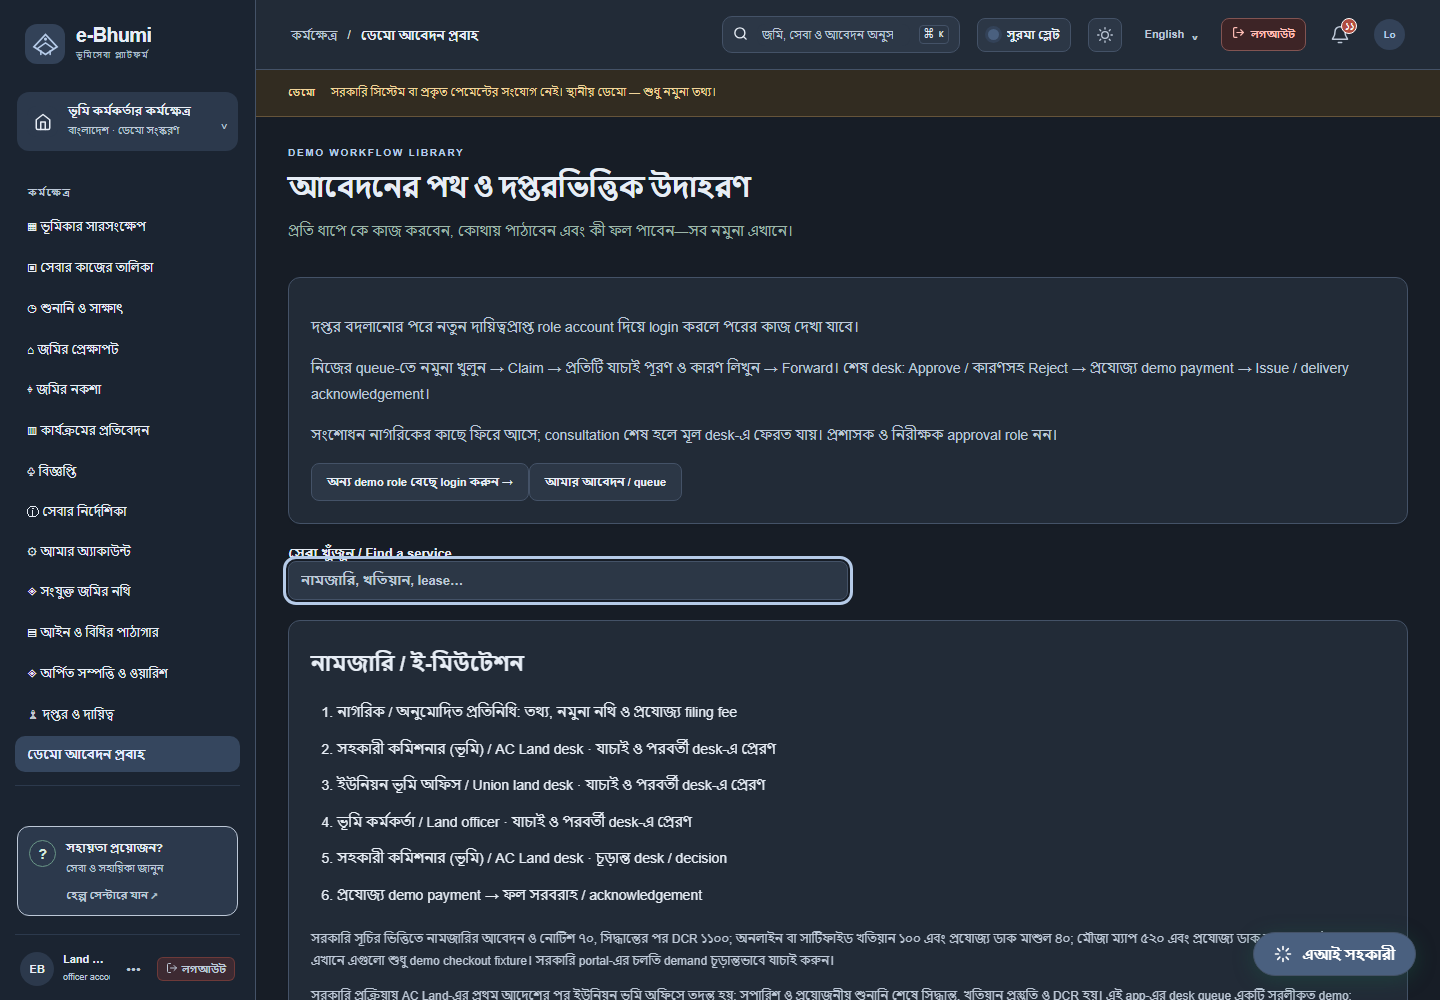
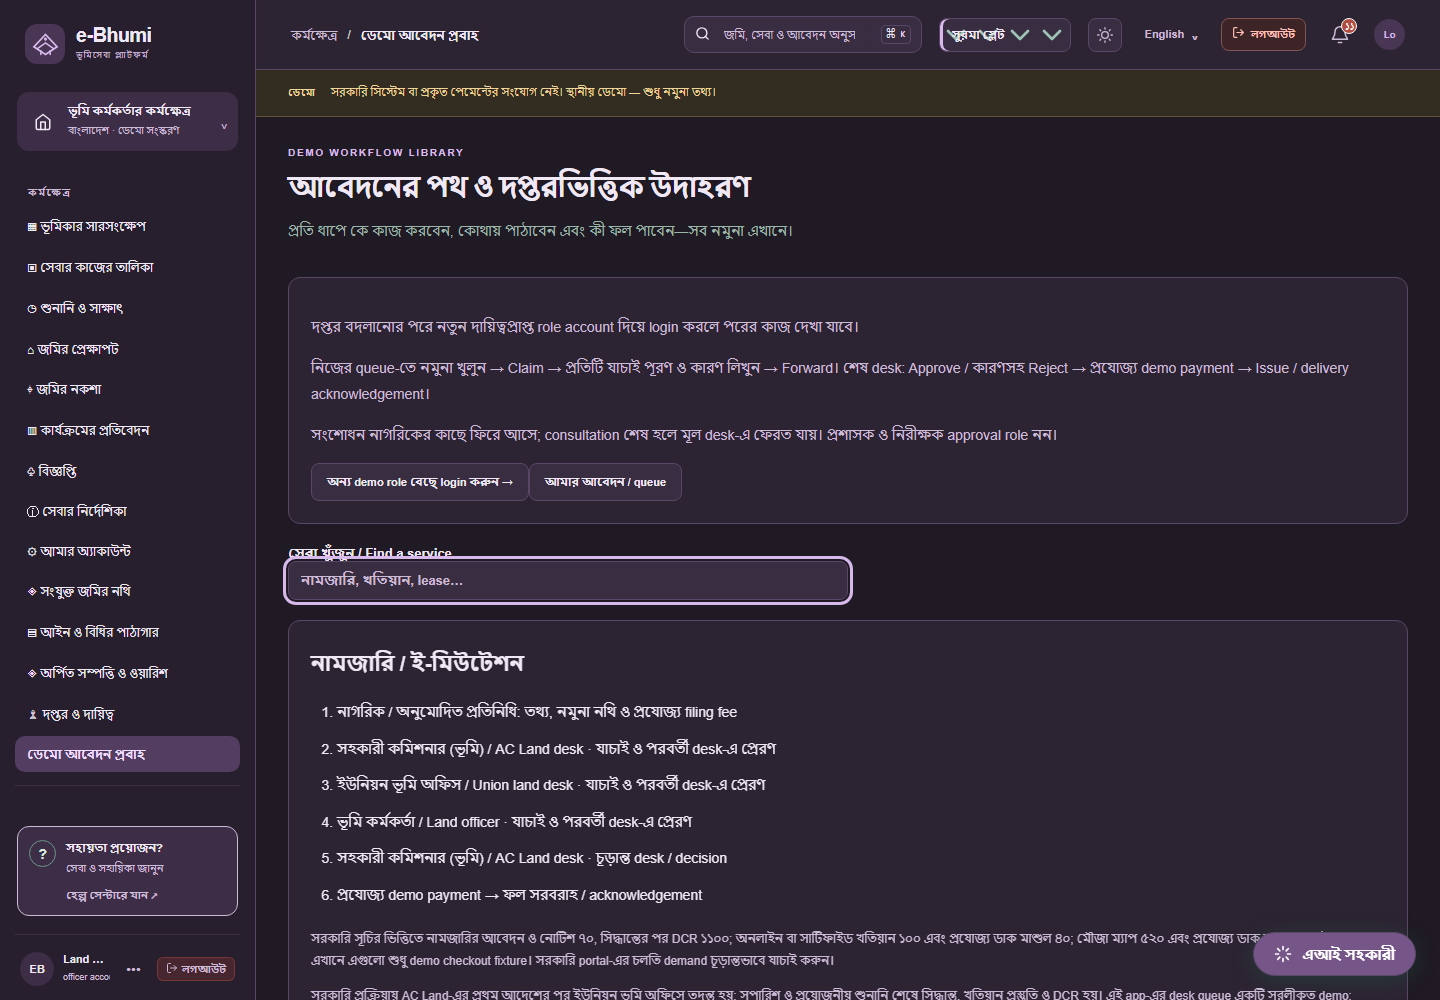
Simplify colour picker and distinguish Meghna blue from Surma plum slate

diff --git a/ebhumi-platform/themes.css b/ebhumi-platform/themes.css
@@ -33,8 +33,6 @@
   --theme-sideMuted:#b3c2ce;
   --theme-active:#2a465d;
   --theme-activeInk:#dceeff;
-  --theme-primary:#335f88;
-  --theme-primaryHover:#3d709d;
   --theme-primary:#335f88;--theme-primary-hover:#3d709d;
 }
 :root[data-color-variant="sundarban"]{
@@ -71,47 +69,43 @@
   --theme-sideMuted:#d0bca9;
   --theme-active:#4b392b;
   --theme-activeInk:#f8dfc7;
-  --theme-primary:#865337;
-  --theme-primaryHover:#996344;
   --theme-primary:#865337;--theme-primary-hover:#996344;
 }
 :root[data-color-variant="surma"]{
-  --theme-canvas:#f4f6f8;
+  --theme-canvas:#f6f4f7;
   --theme-surface:#ffffff;
-  --theme-soft:#eaf0f5;
-  --theme-ink:#2c3d51;
-  --theme-muted:#5b6c80;
-  --theme-line:#d4dde6;
-  --theme-accent:#4a607e;
-  --theme-hover:#354b68;
-  --theme-tint:#e8edf4;
-  --theme-side:#2b394b;
-  --theme-sideSoft:#3b4c62;
-  --theme-sideInk:#f0f4fa;
-  --theme-sideMuted:#c4cfdf;
-  --theme-active:#e8edf5;
-  --theme-activeInk:#354c69;
-  --theme-primary:#4a607e;--theme-primary-hover:#354b68;
+  --theme-soft:#eee9f0;
+  --theme-ink:#3c3444;
+  --theme-muted:#6d6077;
+  --theme-line:#ddd4e2;
+  --theme-accent:#695174;
+  --theme-hover:#513d5c;
+  --theme-tint:#eee7f1;
+  --theme-side:#43364b;
+  --theme-sideSoft:#56435f;
+  --theme-sideInk:#f7f0fa;
+  --theme-sideMuted:#d8c7e0;
+  --theme-active:#efe6f3;
+  --theme-activeInk:#594063;
+  --theme-primary:#695174;--theme-primary-hover:#513d5c;
 }
 :root[data-color-variant="surma"][data-theme="dark"]{
-  --theme-canvas:#171d26;
-  --theme-surface:#222b37;
-  --theme-soft:#2c3746;
-  --theme-ink:#e7edf5;
-  --theme-muted:#bdc8d7;
-  --theme-line:#445267;
-  --theme-accent:#b6cbe8;
-  --theme-hover:#d5e4f7;
-  --theme-tint:#334258;
-  --theme-side:#1b2431;
-  --theme-sideSoft:#2c394c;
-  --theme-sideInk:#e7edf5;
-  --theme-sideMuted:#bdc8d7;
-  --theme-active:#35465e;
-  --theme-activeInk:#e4edff;
-  --theme-primary:#4a607f;
-  --theme-primaryHover:#586f91;
-  --theme-primary:#4a607f;--theme-primary-hover:#586f91;
+  --theme-canvas:#201a24;
+  --theme-surface:#2d2433;
+  --theme-soft:#392e41;
+  --theme-ink:#f0e8f5;
+  --theme-muted:#ccbbd6;
+  --theme-line:#5a4767;
+  --theme-accent:#d7b9ec;
+  --theme-hover:#edd6fa;
+  --theme-tint:#493554;
+  --theme-side:#281f2e;
+  --theme-sideSoft:#3d2d47;
+  --theme-sideInk:#f0e8f5;
+  --theme-sideMuted:#ccbbd6;
+  --theme-active:#533d61;
+  --theme-activeInk:#f1ddff;
+  --theme-primary:#765588;--theme-primary-hover:#89649d;
 }
 :root[data-color-variant]:not([data-color-variant="padma"]){--canvas:var(--theme-canvas);--paper:var(--theme-surface);--white:var(--theme-surface);--ink:var(--theme-ink);--muted:var(--theme-muted);--line:var(--theme-line);--green:var(--theme-accent);--green-2:var(--theme-hover);--mint:var(--theme-tint);--color-brand-primary:var(--theme-primary);--color-brand-hover:var(--theme-primary-hover);--color-brand-subtle:var(--theme-tint);--color-brand-border:var(--theme-line);background:var(--theme-canvas);color:var(--theme-ink)}
 :root[data-color-variant]:not([data-color-variant="padma"]) body,
@@ -264,24 +258,11 @@
 :root[data-color-variant]:not([data-color-variant="padma"])[data-theme="dark"] #hillTerrainPanel .panel[style],:root[data-color-variant]:not([data-color-variant="padma"])[data-theme="dark"] #hillTerrainPanel [style*="background"]{background:var(--theme-soft)!important;border-color:var(--theme-line)!important}
 :root[data-color-variant]:not([data-color-variant="padma"])[data-theme="dark"] #hillTerrainPanel [style*="color"]{color:var(--theme-ink)!important}
 
-/* Visual colour picker. Native radio inputs retain keyboard and screen-reader support. */
-.appearance-trigger{height:34px;display:inline-flex;align-items:center;gap:8px;max-width:155px;white-space:nowrap;padding:0 10px;border:1px solid var(--line,#dce7e1);border-radius:8px;background:#fff;color:var(--ink,#173d33);font-size:11px;font-weight:600;cursor:pointer}
-.appearance-trigger>span:last-child{overflow:hidden;text-overflow:ellipsis}
-.appearance-dot{width:11px;height:11px;flex:none;border-radius:50%;background:var(--theme-primary,#1b5e48);box-shadow:0 0 0 3px var(--theme-tint,#eaf4ef)}
-[data-theme="dark"][data-color-variant="padma"] .appearance-trigger{background:#152e25;border-color:#22443a;color:#e3ede6}
-.appearance-dialog{width:min(620px,calc(100vw - 28px));padding:26px;border-radius:18px;box-shadow:0 24px 80px #0004}
-.appearance-dialog::backdrop{background:#101a24a3;backdrop-filter:blur(5px)}
-.appearance-dialog .dialog-head{align-items:flex-start}.appearance-dialog h2{margin:3px 0 0;font-size:23px;line-height:1.45}.appearance-dialog .eyebrow{margin:0;font-size:9px}
-.appearance-dialog .appearance-intro{font-size:13px;margin:12px 0 20px;color:var(--muted);line-height:1.8}.appearance-close{font-size:23px;line-height:1;width:34px;height:34px;flex:none}
-.appearance-dialog fieldset{min-width:0;border:0;padding:0;margin:0 0 20px}.appearance-dialog legend{font-size:12px;font-weight:700;margin-bottom:10px}
-.appearance-modes{display:grid;grid-template-columns:1fr 1fr;gap:8px}.appearance-modes label{display:flex;flex-direction:row;align-items:center;justify-content:center;gap:8px;border:1px solid var(--line);padding:11px;border-radius:9px;cursor:pointer;font-size:12px}.appearance-modes input{width:15px;height:15px;margin:0;accent-color:var(--theme-primary,var(--green))}.appearance-modes label:has(:checked){background:var(--theme-tint,var(--mint));border-color:var(--theme-accent,var(--green))}
-.appearance-palettes{display:grid;grid-template-columns:1fr 1fr;gap:12px}.appearance-choice{position:relative;display:block;border:1px solid var(--line);border-radius:12px;padding:10px;cursor:pointer;min-width:0}.appearance-choice>input{position:absolute;top:14px;right:14px;width:17px;height:17px;margin:0;accent-color:var(--theme-primary,var(--green));z-index:1}.appearance-choice:has(:checked){border-color:var(--theme-accent,var(--green));box-shadow:0 0 0 1px var(--theme-accent,var(--green))}.appearance-choice:has(:focus-visible){outline:3px solid var(--theme-accent,var(--green));outline-offset:3px}.appearance-choice-title{display:block;margin-top:10px;font-size:13px;font-weight:700}.appearance-choice-note{display:block;font-size:10px;margin-top:3px;color:var(--muted);line-height:1.8}.appearance-check{position:absolute;right:13px;bottom:24px;color:var(--theme-accent,var(--green));display:none}.appearance-choice:has(:checked) .appearance-check{display:block}
-.appearance-mini{display:block;position:relative;height:92px;overflow:hidden;border-radius:7px;background:var(--preview-canvas);border:1px solid #71809330}.appearance-mini i{display:block;position:absolute}.mini-side{inset:0 auto 0 0;width:24%;background:var(--preview-side)}.mini-top{top:0;left:24%;right:0;height:18px;background:var(--preview-card);border-bottom:1px solid #71809322}.mini-card{top:29px;left:31%;width:26%;height:24px;border-radius:4px;background:var(--preview-card);border:1px solid #71809322}.mini-card.second{left:63%}.mini-action{left:31%;bottom:14px;width:33%;height:10px;border-radius:3px;background:var(--preview-accent)}
-[data-palette="padma"]{--preview-canvas:#f4f7f3;--preview-side:#123d35;--preview-card:#fff;--preview-accent:#1b5e48}[data-palette="meghna"]{--preview-canvas:#f3f6f9;--preview-side:#19384c;--preview-card:#fff;--preview-accent:#2b5c83}[data-palette="sundarban"]{--preview-canvas:#f8f6f2;--preview-side:#49392b;--preview-card:#fffefd;--preview-accent:#815737}[data-palette="surma"]{--preview-canvas:#f4f6f8;--preview-side:#2b394b;--preview-card:#fff;--preview-accent:#4a607e}
-[data-mode="dark"] [data-palette="padma"]{--preview-canvas:#0c1c17;--preview-side:#0b1a15;--preview-card:#132720;--preview-accent:#2b8465}[data-mode="dark"] [data-palette="meghna"]{--preview-canvas:#101923;--preview-side:#101f2d;--preview-card:#182632;--preview-accent:#335f88}[data-mode="dark"] [data-palette="sundarban"]{--preview-canvas:#211b17;--preview-side:#251e18;--preview-card:#2d251f;--preview-accent:#865337}[data-mode="dark"] [data-palette="surma"]{--preview-canvas:#171d26;--preview-side:#1b2431;--preview-card:#222b37;--preview-accent:#4a607f}
-.appearance-dialog .appearance-saved{margin:0;font-size:11px;color:var(--muted);line-height:1.8}
-@media(max-width:600px){.appearance-trigger{max-width:98px;padding:0 7px;gap:6px;font-size:10px}.appearance-dot{width:8px;height:8px}.appearance-dialog{padding:18px}.appearance-dialog h2{font-size:21px}.appearance-palettes{gap:10px}.appearance-choice-note{max-width:120px}.appearance-choice-title{font-size:12px}.appearance-check{right:10px;bottom:12px}.appearance-mini{height:80px}}
-@media print{.appearance-dialog,.appearance-trigger{display:none!important}}
+/* Compact colour control; original green/white surfaces stay unchanged. */
+.color-variant-select{width:132px;max-width:132px;height:34px;font-size:11px}
+.color-variant-select,[data-theme="dark"] .color-variant-select{appearance:none;background-repeat:no-repeat;background-position:right 8px center;background-size:11px;padding-right:25px;line-height:1.4}
+:root[data-color-variant]:not([data-color-variant="padma"]) .color-variant-select{box-shadow:inset 3px 0 0 var(--theme-accent);padding-left:12px}
+@media(max-width:600px){.color-variant-select{flex:0 0 98px;width:98px;max-width:98px;height:32px;font-size:10px;padding-left:7px;padding-right:19px}}
 
 /* Preserved demo workflow layout. */
 .demo-summary{margin-top:24px}.demo-example-links{display:flex;flex-wrap:wrap;gap:10px;margin-top:15px}.demo-example-links a{display:inline-block;padding:8px 11px;border:1px solid var(--line);border-radius:7px;overflow-wrap:anywhere}.demo-flow-filter{display:block;margin:20px 0;max-width:560px}.demo-route{padding-left:26px;line-height:1.9}.demo-flow-card{margin-bottom:20px}.demo-route li{padding:5px 0}.demo-flow-card[hidden]{display:none}

diff --git a/ebhumi-platform/appearance.js b/ebhumi-platform/appearance.js
@@ -1,34 +1,14 @@
 'use strict';
-/* Local appearance preferences only; no account or workflow data is changed. */
-const APPEARANCE_PALETTES=[
- {id:'padma',bn:'পদ্মা সবুজ',en:'Padma Green',bnNote:'চিরচেনা সবুজ ও সাদা',enNote:'The original green and white'},
- {id:'meghna',bn:'মেঘনা নীল',en:'Meghna Blue',bnNote:'নদীর নীল, শান্ত আবহ',enNote:'Quiet river-blue tones'},
- {id:'sundarban',bn:'মৃত্তিকা',en:'Earth Clay',bnNote:'মাটির উষ্ণ, কোমল আভা',enNote:'Warm, understated earth tones'},
- {id:'surma',bn:'সুরমা স্লেট',en:'Surma Slate',bnNote:'ধূসর-নীলের পরিমিত ছোঁয়া',enNote:'A restrained blue-grey balance'}
-];
+/* Compact native picker; the existing moon/sun button controls display mode. */
+const APPEARANCE_PALETTES=[{id:'padma',bn:'পদ্মা সবুজ',en:'Padma Green'},{id:'meghna',bn:'মেঘনা নীল',en:'Meghna Blue'},{id:'sundarban',bn:'মৃত্তিকা',en:'Earth Clay'},{id:'surma',bn:'সুরমা স্লেট',en:'Surma Slate'}];
 function initAppearance(){
- if(document.getElementById('appearanceDialog'))return;
- const select=document.getElementById('colorVariantSelect');if(!select)return;
- const trigger=document.createElement('button');trigger.id='appearanceOpen';trigger.type='button';trigger.className='appearance-trigger';trigger.setAttribute('aria-haspopup','dialog');trigger.setAttribute('aria-controls','appearanceDialog');
- select.before(trigger);select.hidden=true;
- const dialog=document.createElement('dialog');dialog.id='appearanceDialog';dialog.className='appearance-dialog';dialog.setAttribute('aria-labelledby','appearanceTitle');
- dialog.innerHTML='<div class="dialog-head"><div><span class="eyebrow" data-appearance-copy="eyebrow"></span><h2 id="appearanceTitle" data-appearance-copy="title"></h2></div><button type="button" class="appearance-close icon-button">×</button></div><p class="appearance-intro" data-appearance-copy="intro"></p><fieldset class="appearance-modes"><legend data-appearance-copy="mode"></legend><label><input type="radio" name="appearanceMode" value="light"><span data-appearance-copy="light"></span></label><label><input type="radio" name="appearanceMode" value="dark"><span data-appearance-copy="dark"></span></label></fieldset><fieldset class="appearance-palettes"><legend data-appearance-copy="palette"></legend>'+APPEARANCE_PALETTES.map(p=>'<label class="appearance-choice" data-palette="'+p.id+'"><input type="radio" name="appearancePalette" value="'+p.id+'"><span class="appearance-mini" aria-hidden="true"><i class="mini-side"></i><i class="mini-top"></i><i class="mini-card"></i><i class="mini-card second"></i><i class="mini-action"></i></span><span class="appearance-choice-title"></span><small class="appearance-choice-note"></small><span class="appearance-check" aria-hidden="true">✓</span></label>').join('')+'</fieldset><p class="appearance-saved" data-appearance-copy="saved"></p>';
- document.body.append(dialog);
- trigger.addEventListener('click',()=>{syncAppearance();dialog.showModal();dialog.querySelector('input[name="appearanceMode"]:checked')?.focus();});
- dialog.querySelector('.appearance-close').addEventListener('click',()=>dialog.close());
- dialog.addEventListener('click',e=>{if(e.target===dialog){const r=dialog.getBoundingClientRect();if(e.clientX<r.left||e.clientX>r.right||e.clientY<r.top||e.clientY>r.bottom)dialog.close();}});
- dialog.addEventListener('change',e=>{if(e.target.name==='appearancePalette')setColorVariant(e.target.value);if(e.target.name==='appearanceMode'){localStorage.setItem('ebhumi_theme',e.target.value);applyTheme(e.target.value);}});
- dialog.addEventListener('close',()=>trigger.focus());
- window.addEventListener('storage',e=>{if(e.key==='ebhumi_color_variant')applyColorVariant(e.newValue||'padma');if(e.key==='ebhumi_theme')applyTheme(e.newValue==='dark'?'dark':'light');});
- let previousLanguage=document.documentElement.lang;new MutationObserver(()=>{const current=document.documentElement.lang;if(current!==previousLanguage){previousLanguage=current;syncAppearance();}}).observe(document.documentElement,{attributes:true,attributeFilter:['lang']});
- syncAppearance();
+ const select=document.getElementById('colorVariantSelect');if(!select)return;select.hidden=false;if(select.dataset.appearanceReady)return;select.dataset.appearanceReady='true';
+ window.addEventListener('storage',e=>{if(e.key==='ebhumi_color_variant')applyColorVariant(e.newValue||'padma');if(e.key==='ebhumi_theme')initTheme();});
+ let previousLanguage=document.documentElement.lang;new MutationObserver(()=>{const current=document.documentElement.lang;if(current!==previousLanguage){previousLanguage=current;syncAppearance();}}).observe(document.documentElement,{attributes:true,attributeFilter:['lang']});syncAppearance();
 }
 function syncAppearance(){
- const dialog=document.getElementById('appearanceDialog'),trigger=document.getElementById('appearanceOpen');if(!dialog||!trigger)return;
- const bn=document.documentElement.lang!=='en',variant=document.documentElement.dataset.colorVariant||'padma',mode=document.documentElement.dataset.theme==='dark'?'dark':'light',selected=APPEARANCE_PALETTES.find(p=>p.id===variant)||APPEARANCE_PALETTES[0];
- const copy=bn?{eyebrow:'নিজের মতো করে',title:'আপনার পছন্দের আবহ',intro:'রঙের নমুনা দেখে বেছে নিন। আপনার কাজ ও তথ্য একই থাকবে।',mode:'আলোর ধরন',light:'দিনের আলো',dark:'রাতের আবহ',palette:'রঙের সংগ্রহ',saved:'আপনার পছন্দ এই ব্রাউজারে সংরক্ষিত থাকবে।',close:'বন্ধ করুন',open:'রঙ ও আলোর ধরন বাছুন'}:{eyebrow:'MAKE IT YOURS',title:'A workspace in your colours',intro:'Choose a palette from the previews. Your work and information stay the same.',mode:'Display mode',light:'Daylight',dark:'Nightfall',palette:'Colour collection',saved:'Your preference stays saved in this browser.',close:'Close',open:'Choose colours and display mode'};
- trigger.replaceChildren();const dot=document.createElement('span');dot.className='appearance-dot';dot.setAttribute('aria-hidden','true');const label=document.createElement('span');label.textContent=selected[bn?'bn':'en'];trigger.append(dot,label);trigger.title=copy.open;trigger.setAttribute('aria-label',copy.open+': '+label.textContent);
- dialog.dataset.mode=mode;for(const el of dialog.querySelectorAll('[data-appearance-copy]'))el.textContent=copy[el.dataset.appearanceCopy];dialog.querySelector('.appearance-close').setAttribute('aria-label',copy.close);
- for(const input of dialog.querySelectorAll('input[name="appearanceMode"]'))input.checked=input.value===mode;
- for(const p of APPEARANCE_PALETTES){const card=dialog.querySelector('[data-palette="'+p.id+'"]');card.querySelector('input').checked=p.id===variant;card.querySelector('.appearance-choice-title').textContent=p[bn?'bn':'en'];card.querySelector('.appearance-choice-note').textContent=p[bn?'bnNote':'enNote'];}
+ const select=document.getElementById('colorVariantSelect');if(!select)return;
+ const bn=document.documentElement.lang!=='en',variant=document.documentElement.dataset.colorVariant||'padma',label=bn?'রং বাছুন':'Choose colour';
+ for(const p of APPEARANCE_PALETTES){const option=select.querySelector('option[value="'+p.id+'"]'),text=p[bn?'bn':'en'];if(option&&option.textContent!==text)option.textContent=text;}
+ if(select.value!==variant)select.value=variant;if(select.title!==label)select.title=label;if(select.getAttribute('aria-label')!==label)select.setAttribute('aria-label',label);
 }

diff --git a/README.md b/README.md
@@ -27,9 +27,9 @@ All 24 roles now include a **Demo workflows & examples** library: 104 applicatio
 | --- | --- |
 | ![Light theme](docs/screenshots-role-themes/meghna-light.png) | ![Night theme](docs/screenshots-role-themes/meghna-dark.png) |
 
-The original green-and-white palette is preserved. **Appearance** opens a bilingual collection of live palette previews: Padma Green, Meghna Blue, Earth Clay and Surma Slate, with separate daylight/nightfall choices and saved browser preferences. Alternate palettes coordinate the canvas, sidebar, cards, forms, tables and buttons; status colours retain their meaning. Demo workflows, role examples, fonts and layout remain intact.
+The original green-and-white palette is preserved. A compact bilingual topbar dropdown switches between Padma Green, Meghna Blue, Earth Clay and Surma Slate; the existing moon/sun button controls night/day mode. Meghna uses river-blue tones, while Surma uses a distinct muted plum-slate family. Preferences stay saved in the browser. Alternate palettes coordinate the canvas, sidebar, cards, forms, tables and buttons; status colours retain their meaning. Demo workflows, role examples, fonts and layout remain intact.
 
-![Appearance collection in night mode](docs/screenshots-role-themes/citizen-appearance-night.png)
+![Compact colour selector in night mode](docs/screenshots-role-themes/citizen-appearance-night.png)
 
 ## Statutory Law Library, Research & Role Desks — v5.7.0
 
